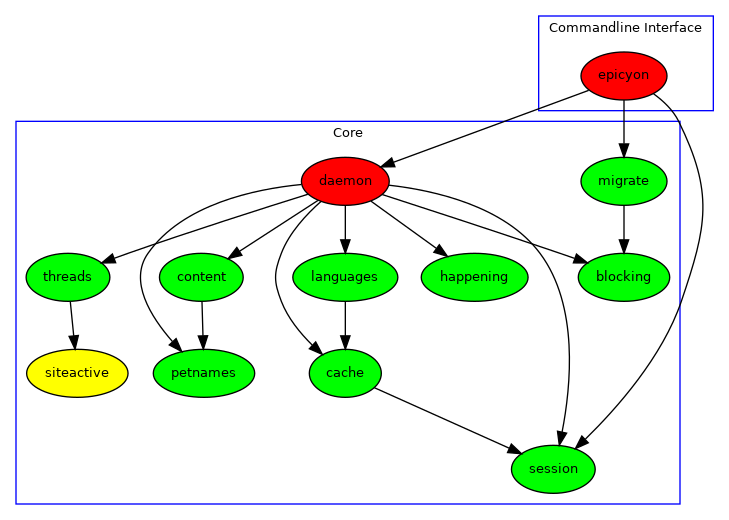
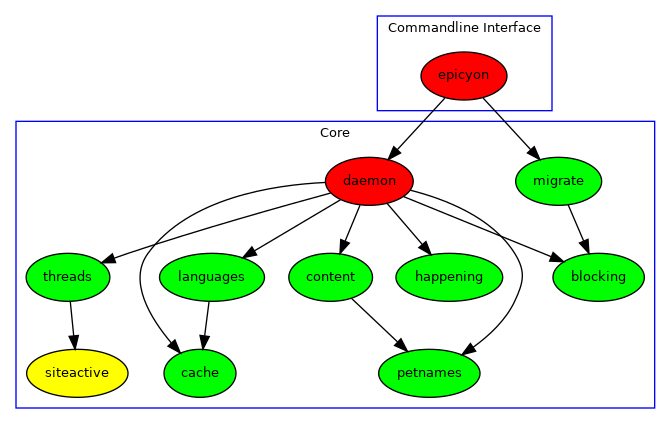
Update diagrams

diff --git a/session.py b/session.py
@@ -5,7 +5,7 @@ __version__ = "1.2.0"
 __maintainer__ = "Bob Mottram"
 __email__ = "bob@libreserver.org"
 __status__ = "Production"
-__module_group__ = "Core"
+__module_group__ = "Session"
 
 import os
 import requests
